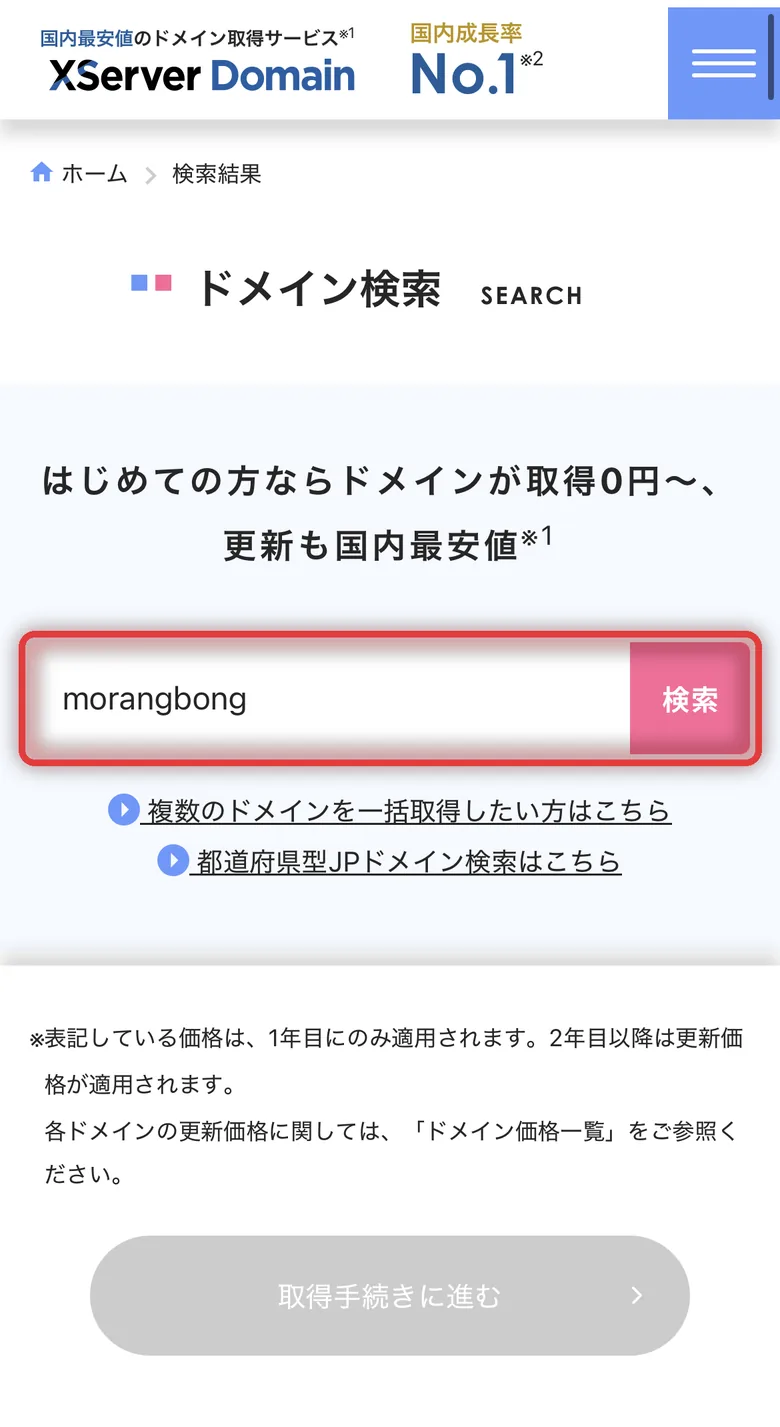
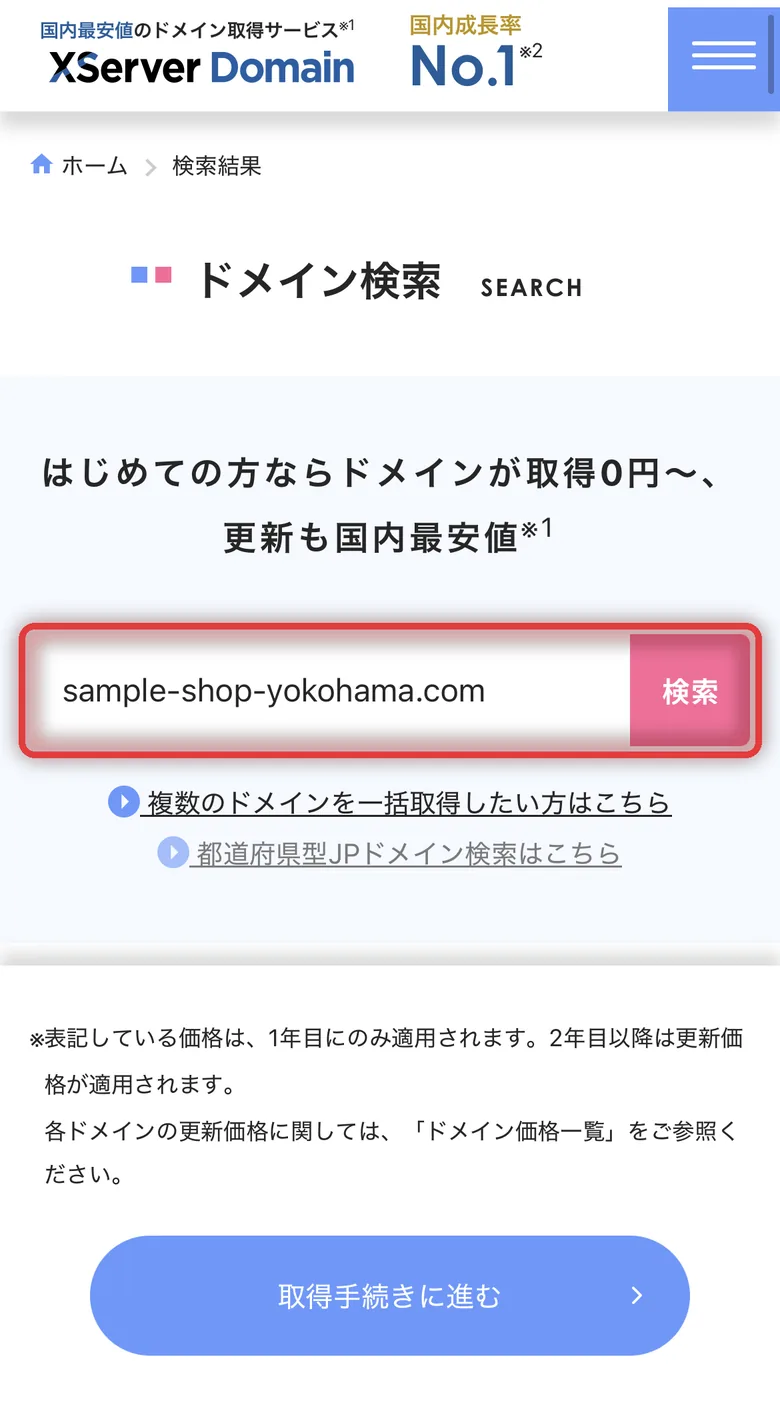
Guide: retake STEP 1 screenshots with test domain sample-shop-yokohama.com
Claude-Session: https://claude.ai/code/session_01QtRvDZe1HGyMR9e2ztSiZN

diff --git a/guide/index.html b/guide/index.html
@@ -135,23 +135,23 @@
           <li class="g-item">
             <div class="g-item__body">
               <p class="g-item__text">YU DESIGNからお伝えしたドメイン名を入力して、「検索」を押します。</p>
-              <p class="g-item__sub">「.com」などの後ろの部分は入れなくても大丈夫です。</p>
+              <p class="g-item__sub">「.com」まで含めて、お伝えした文字をそのまま入力してください。</p>
             </div>
-            <figure class="g-shot g-shot--img"><img src="images/step1-2.webp" alt="ドメイン検索の画面。入力欄と検索ボタンが赤い枠で囲まれている" width="780" height="1427" loading="lazy" decoding="async"></figure>
+            <figure class="g-shot g-shot--img"><img src="images/step1-2.webp?v=2" alt="ドメイン検索の画面。sample-shop-yokohama.comと入力した欄と検索ボタンが赤い枠で囲まれている" width="780" height="1427" loading="lazy" decoding="async"></figure>
           </li>
           <li class="g-item">
             <div class="g-item__body">
-              <p class="g-item__text">お伝えしたドメインの「取得可能です」にチェックを入れます。</p>
-              <p class="g-item__sub">別のドメイン名や、別の種類（.jp や .net など）を選ばないよう、ご注意ください。</p>
+              <p class="g-item__text">お伝えしたドメインが表示されたら、「取得可能です」にチェックを入れます。</p>
+              <p class="g-item__sub">ドメイン名が、お伝えしたものと1文字も違わないか確認してください。</p>
             </div>
-            <figure class="g-shot g-shot--img"><img src="images/step1-3.webp" alt="検索結果の画面。.comの「取得可能です」のチェック欄が赤い枠で囲まれている" width="780" height="1427" loading="lazy" decoding="async"></figure>
+            <figure class="g-shot g-shot--img"><img src="images/step1-3.webp?v=2" alt="検索結果の画面。sample-shop-yokohama.comの「取得可能です」のチェック欄が赤い枠で囲まれている" width="780" height="1427" loading="lazy" decoding="async"></figure>
           </li>
           <li class="g-item">
             <div class="g-item__body">
-              <p class="g-item__text">「ドメインのみ申込」を選び、「取得手続きに進む」を押します。</p>
+              <p class="g-item__text">「ドメインのみ申込」が選ばれていることを確認して、「取得手続きに進む」を押します。</p>
               <p class="g-item__sub">「サーバーとセットで申込」は選ばないでください。サーバーはYU DESIGNが無料で用意します。</p>
             </div>
-            <figure class="g-shot g-shot--img"><img src="images/step1-4.webp" alt="申込方法の選択画面。「ドメインのみ申込」が赤い枠で囲まれている" width="780" height="1427" loading="lazy" decoding="async"></figure>
+            <figure class="g-shot g-shot--img"><img src="images/step1-4.webp?v=2" alt="申込方法の選択画面。「ドメインのみ申込」と「取得手続きに進む」ボタンが赤い枠で囲まれている" width="780" height="1427" loading="lazy" decoding="async"></figure>
           </li>
           <li class="g-item">
             <div class="g-item__body">
